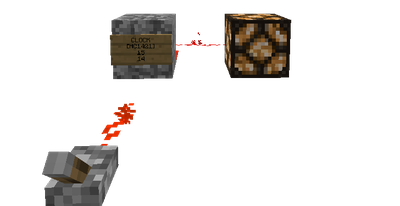
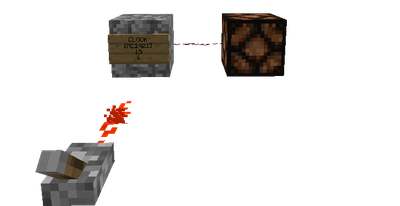
Doc update for 3 ICs

Changed region(s): [[0.27, 0.0583, 0.75, 0.4078], [0.09, 0.4951, 0.36, 1.0]]

diff --git a/templates/mechanics/ics/MC1421.rst b/templates/mechanics/ics/MC1421.rst
@@ -3,7 +3,7 @@ The IC toggles between rising and falling states every X amount of ticks.
 
 Sign parameters
 ===============
-  2. [1421] or [1421]S
+  2. [MC1421] or [MC1421]S
   3. Amount of redstone ticks between toggle
   4. Blank
 

diff --git a/templates/mechanics/ics/MC1111.rst b/templates/mechanics/ics/MC1111.rst
@@ -4,7 +4,7 @@ Sign parameters
 ===============
 
    1. Blank
-   2. [1111]
+   2. [MC1111]
    3. The channel name (Defined in `1110 <1110.html>`_)
    4. Optional wideband. Defaults to UUID if blank
    

diff --git a/templates/mechanics/ics/MC1110.rst b/templates/mechanics/ics/MC1110.rst
@@ -4,7 +4,7 @@ Sign parameters
 ===============
 
    1. Blank
-   2. [1110]
+   2. [MC1110]
    3. The channel name
    4. Optional wideband. Defaults to UUID if blank
 
